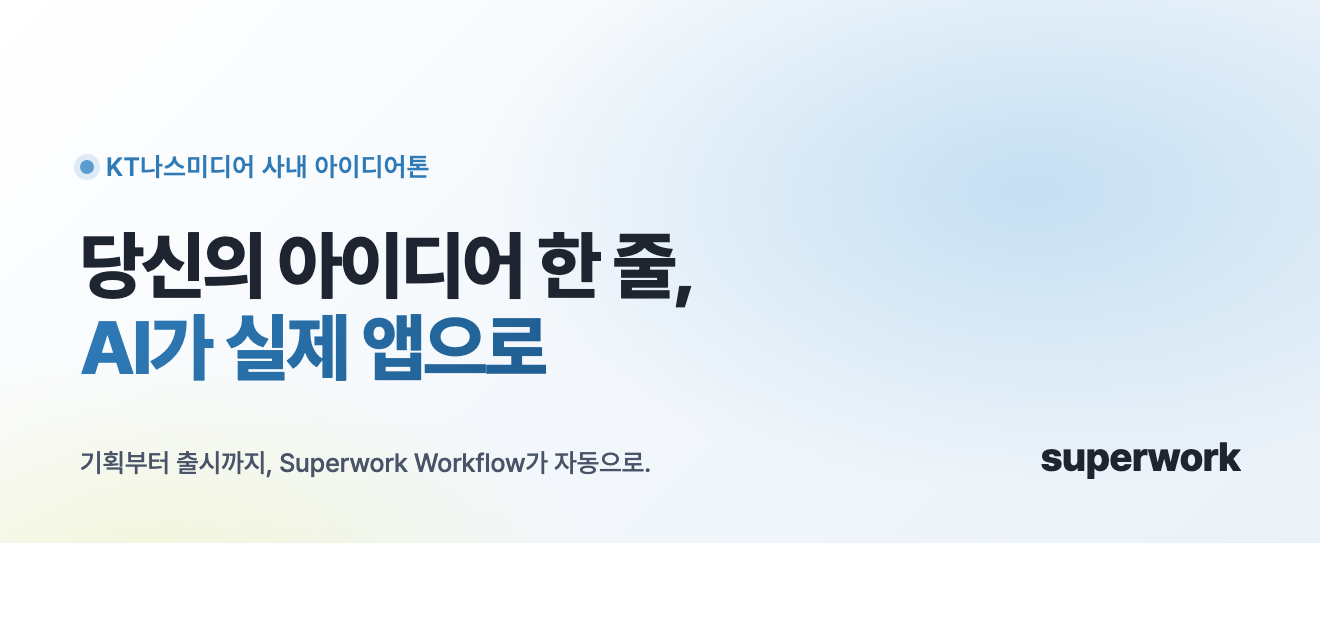
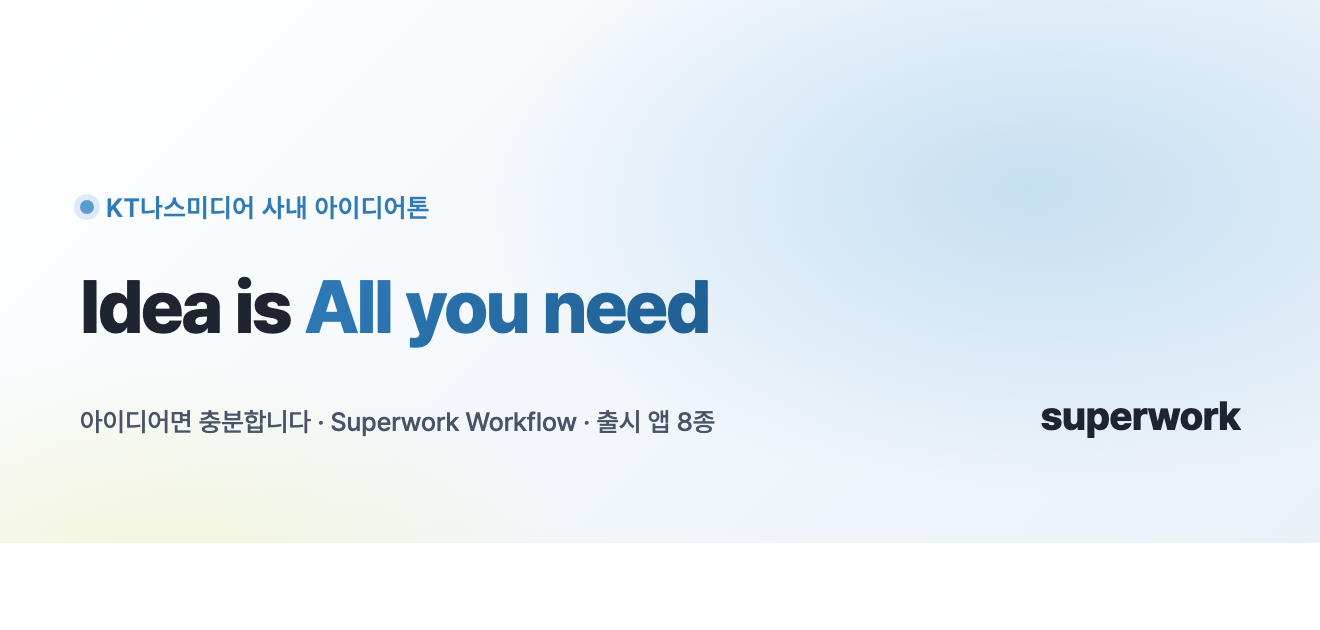
fix: update OG/meta tags and social card to new hero copy
Link previews still showed the old headline ("당신의 아이디어 한 줄,
AI가 실제 앱으로") because index.html meta tags and og.png were
hardcoded with the previous copy. Replace title/description and
og/twitter tags with "Idea is All you need — 아이디어면 충분합니다",
regenerate og.png (1320x630) with the new headline and 8-app count.

Changed region(s): [[0.0311, 0.2413, 0.5591, 0.6032], [0.0621, 0.6333, 0.5591, 0.754], [0.7765, 0.6333, 0.9629, 0.754]]

diff --git a/index.html b/index.html
@@ -4,10 +4,10 @@
     <meta charset="UTF-8" />
     <link rel="icon" type="image/png" href="/superwork-onepage/icons/superwork-mark.png" />
     <meta name="viewport" content="width=device-width, initial-scale=1.0, viewport-fit=cover" />
-    <title>superwork · 아이디어에서 출시까지</title>
+    <title>superwork · Idea is All you need</title>
     <meta
       name="description"
-      content="당신의 아이디어 한 줄, AI가 실제 앱으로. Superwork Workflow로 사내 아이디어톤에서 웹·앱 출시까지."
+      content="Idea is All you need — 아이디어면 충분합니다. 사내 아이디어톤부터 Superwork Workflow 프로토타입 개발, 출시 앱 8종까지."
     />
 
     <meta name="theme-color" content="#fafaf7" />
@@ -16,20 +16,20 @@
          Update the host if the repo is published under a different GitHub owner. -->
     <meta property="og:type" content="website" />
     <meta property="og:url" content="https://elymas.github.io/superwork-onepage/" />
-    <meta property="og:title" content="superwork · 당신의 아이디어 한 줄, AI가 실제 앱으로" />
+    <meta property="og:title" content="superwork · Idea is All you need" />
     <meta
       property="og:description"
-      content="당신의 아이디어 한 줄, AI가 실제 앱으로. Superwork Workflow로 사내 아이디어톤에서 웹·앱 출시까지."
+      content="Idea is All you need — 아이디어면 충분합니다. 사내 아이디어톤부터 Superwork Workflow 프로토타입 개발, 출시 앱 8종까지."
     />
     <meta property="og:image" content="https://elymas.github.io/superwork-onepage/og.png" />
     <meta property="og:image:width" content="1320" />
     <meta property="og:image:height" content="630" />
     <meta property="og:locale" content="ko_KR" />
     <meta name="twitter:card" content="summary_large_image" />
-    <meta name="twitter:title" content="superwork · 당신의 아이디어 한 줄, AI가 실제 앱으로" />
+    <meta name="twitter:title" content="superwork · Idea is All you need" />
     <meta
       name="twitter:description"
-      content="당신의 아이디어 한 줄, AI가 실제 앱으로. Superwork Workflow로 사내 아이디어톤에서 웹·앱 출시까지."
+      content="Idea is All you need — 아이디어면 충분합니다. 사내 아이디어톤부터 Superwork Workflow 프로토타입 개발, 출시 앱 8종까지."
     />
     <meta name="twitter:image" content="https://elymas.github.io/superwork-onepage/og.png" />
 